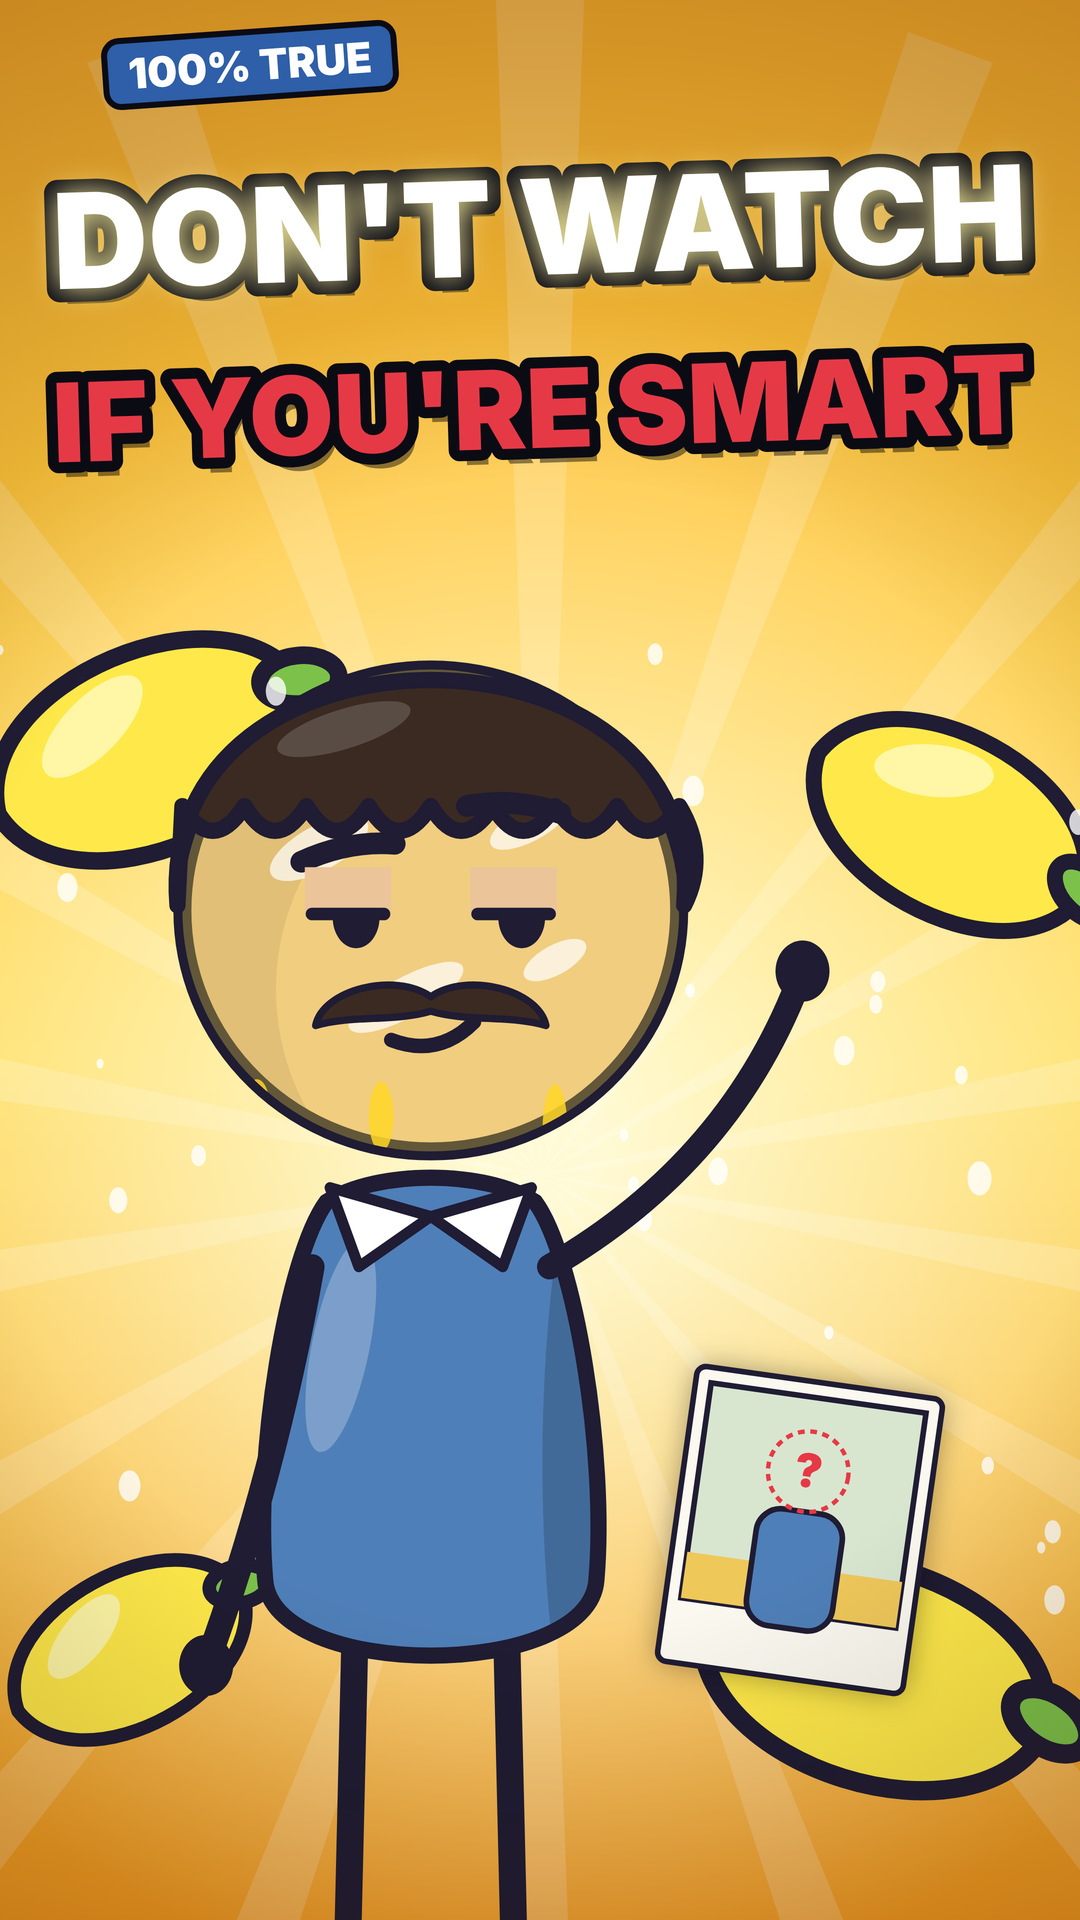
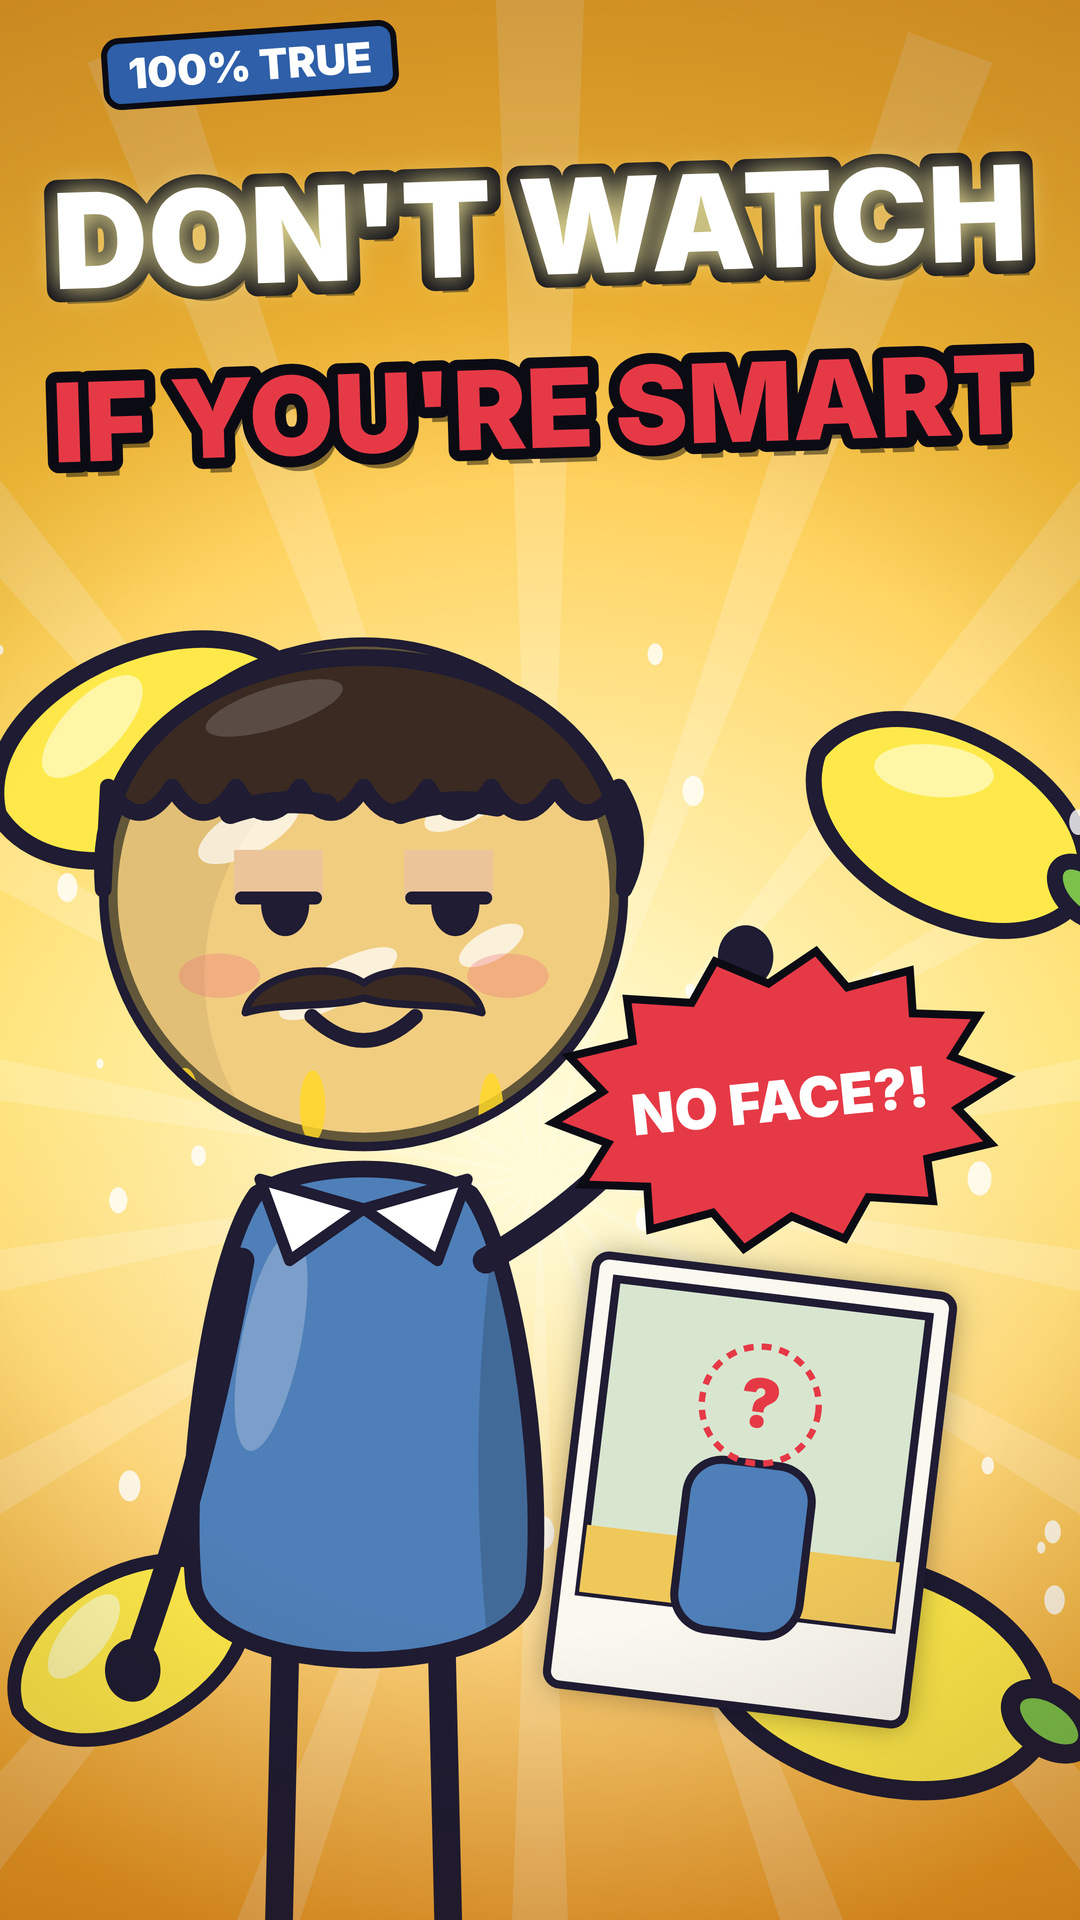
Lemon robber thumbnail v3
Claude-Session: https://claude.ai/code/session_014gKkx8w4VmPKPm4nB9KoYH

Changed region(s): [[0.0917, 0.3125, 0.9472, 1.0]]

diff --git a/thumbs/designs/lemon-robber.html b/thumbs/designs/lemon-robber.html
@@ -17,15 +17,19 @@ lemon(300, 1500, 2.2, -0.4); lemon(1900, 1650, 2.0, 0.5); lemon(1750, 3350, 2.4,
 // splash drops
 g.fillStyle = 'rgba(255,255,255,0.8)'; for (let i = 0; i < 40; i++) { const x = R(i * 2.1) * W, y = 1300 + R(i * 5.3) * 2200, s = 10 + R(i) * 26; g.beginPath(); g.ellipse(x, y, s * 0.7, s, 0, 0, 7); g.fill(); }
 // the robber: huge, smug, shiny
-g.save(); g.translate(-60, 1180); g.scale(3.6, 3.6);
-drawToon(g, { body: '#4F7FB8', head: '#EBC49A', hair: 'curly', hairCol: '#3A2A22', extra: ['juice', 'mustache'], neck: 'collar' }, { mood: 'smug', look: [0.5, 0], talk: 0, armR: [120, 40], armL: [10, 10] });
+g.save(); g.translate(-220, 1130); g.scale(3.7, 3.7);
+drawToon(g, { body: '#4F7FB8', head: '#EBC49A', hair: 'curly', hairCol: '#3A2A22', extra: ['juice', 'mustache'], neck: 'collar' }, { mood: 'proud', look: [0.4, 0.2], talk: 0, armR: [120, 40], armL: [10, 10] });
 g.restore();
 // polaroid with headless photo
-g.save(); g.translate(1600, 3060); g.rotate(0.14); g.scale(0.62, 0.62); g.shadowColor = 'rgba(0,0,0,0.4)'; g.shadowBlur = 60; g.fillStyle = '#FBF8F0'; g.strokeStyle = INK; g.lineWidth = 18; g.beginPath(); g.roundRect(-400, -480, 800, 960, 30); g.fill(); g.shadowBlur = 0; g.stroke();
+g.save(); g.translate(1500, 2980); g.rotate(0.12); g.scale(0.9, 0.9); g.shadowColor = 'rgba(0,0,0,0.4)'; g.shadowBlur = 60; g.fillStyle = '#FBF8F0'; g.strokeStyle = INK; g.lineWidth = 18; g.beginPath(); g.roundRect(-400, -480, 800, 960, 30); g.fill(); g.shadowBlur = 0; g.stroke();
 g.fillStyle = '#D8E6D0'; g.fillRect(-350, -430, 700, 700); g.strokeRect(-350, -430, 700, 700); g.fillStyle = '#EFC85A'; g.fillRect(-350, 120, 700, 150);
 g.fillStyle = '#4F7FB8'; g.beginPath(); g.roundRect(-140, -60, 280, 380, 80); g.fill(); g.stroke();
 g.setLineDash([22, 18]); g.strokeStyle = '#E63946'; g.lineWidth = 14; g.beginPath(); g.arc(0, -190, 130, 0, 7); g.stroke(); g.setLineDash([]); g.fillStyle = '#E63946'; g.font = '900 150px Inter'; g.textAlign = 'center'; g.fillText('?', 0, -140);
 g.restore();
+
+// NO FACE?! sticker
+g.save(); g.translate(1560, 2200); g.rotate(-0.1); g.fillStyle = '#E63946'; g.strokeStyle = '#0B0B14'; g.lineWidth = 16; g.beginPath(); for (let i = 0; i < 28; i++) { const a = i / 28 * Math.PI * 2, r = i % 2 ? 300 : 380; g.lineTo(Math.cos(a) * r * 1.2, Math.sin(a) * r * 0.78); } g.closePath(); g.fill(); g.stroke();
+g.fillStyle = '#FFFFFF'; g.font = '900 112px Inter'; g.textAlign = 'center'; g.textBaseline = 'middle'; g.fillText('NO FACE?!', 0, 8); g.restore();
 gr = g.createRadialGradient(W / 2, H * 0.55, H * 0.3, W / 2, H * 0.55, H * 0.78); gr.addColorStop(0, 'rgba(0,0,0,0)'); gr.addColorStop(1, 'rgba(120,50,0,0.45)'); g.fillStyle = gr; g.fillRect(0, 0, W, H);
 const word = (s, x, y, size, fill, glow, rot) => { g.save(); g.translate(x, y); g.rotate(rot); g.font = `900 ${size}px Inter`; g.textAlign = 'center'; g.textBaseline = 'middle'; g.lineJoin = 'round';
   g.fillStyle = 'rgba(0,0,0,0.45)'; g.fillText(s, 14, 30); g.lineWidth = size * 0.2; g.strokeStyle = '#0B0B14'; g.strokeText(s, 0, 0); if (glow) { g.shadowColor = glow; g.shadowBlur = 60; } g.fillStyle = fill; g.fillText(s, 0, 0); g.restore(); };
